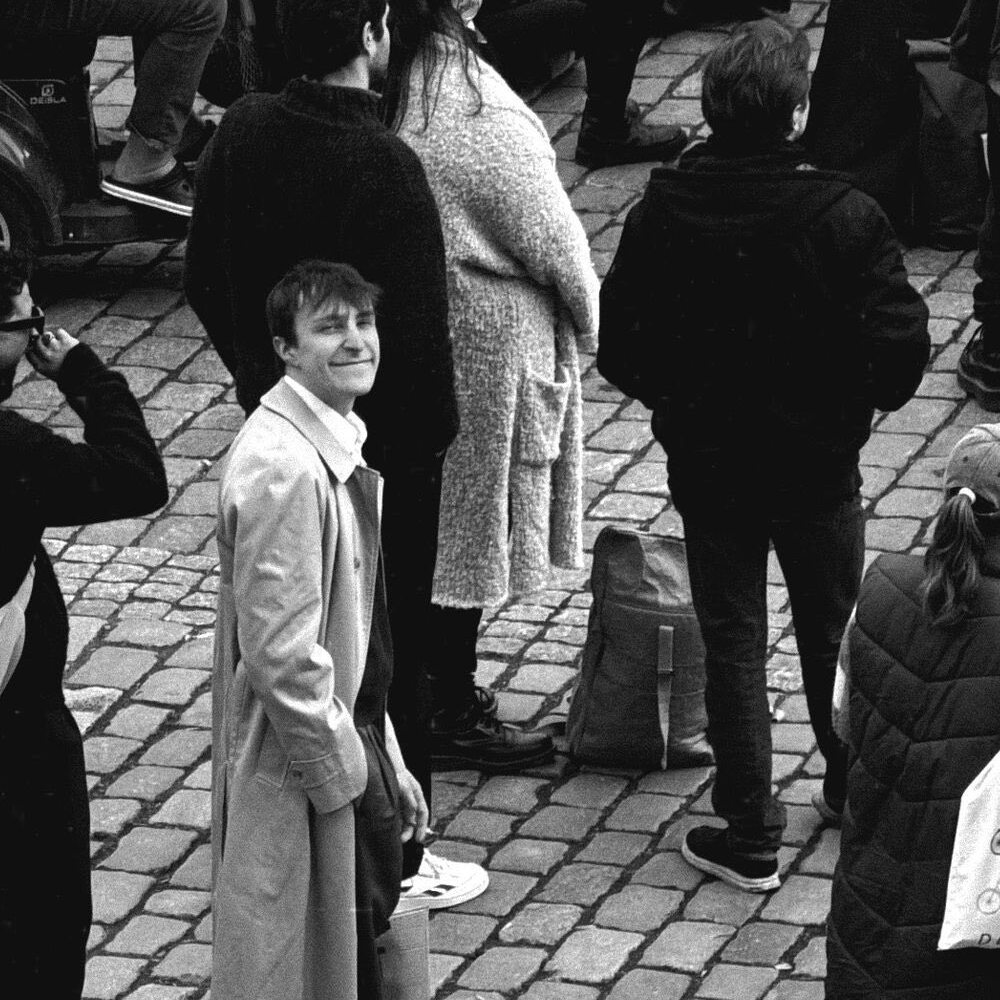
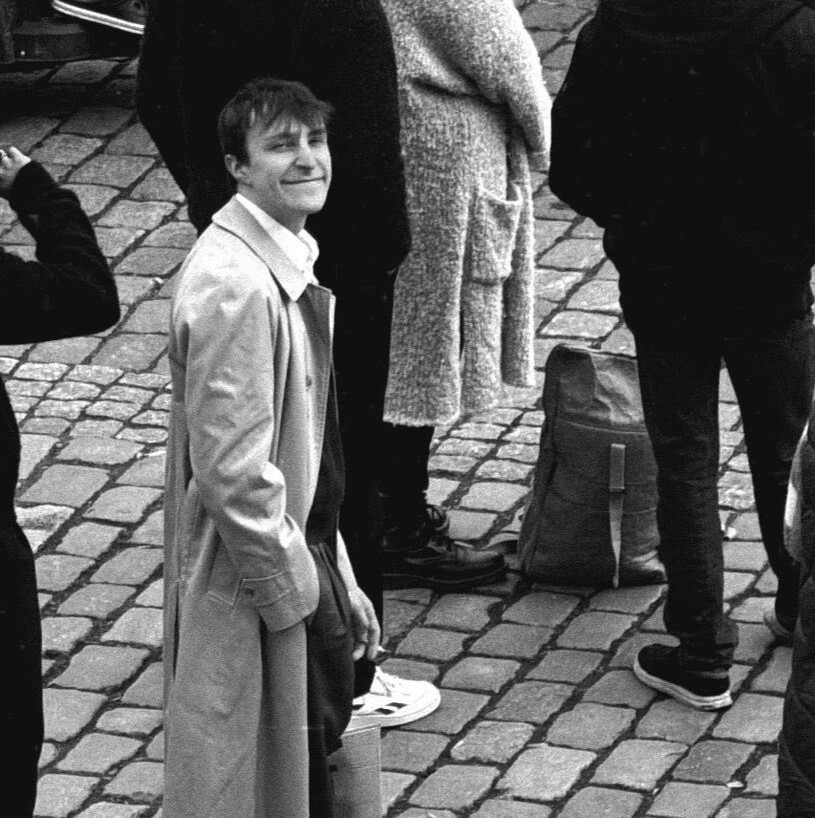
headlines

diff --git a/src/pages/RisingBrands.jsx b/src/pages/RisingBrands.jsx
@@ -70,9 +70,9 @@ export default function RisingBrands() {
       </section>
       <section className="flex flex-col justify-center gap-4 border-y border-slate-300 max-w-[1200px] w-full lg:text-center">
         <div className="flex flex-col lg:items-center h-full w-full px-4 py-40 gap-4">
-          <h2 className="instrument text-4xl">
+          <span className="instrument text-4xl">
             {risingBrands[locale].program.title}
-          </h2>
+          </span>
           <div className="border-b border-slate-300 border-zinc-500 w-2/5" />
           <span className="text-slate-600 max-w-[600px]">
             {risingBrands[locale].program.text}
@@ -82,9 +82,9 @@ export default function RisingBrands() {
       </section>
       <section className="flex flex-col items-center gap-4 border-b border-slate-300 max-w-[1200px] w-full">
         <div className="flex flex-col lg:items-center h-full w-full px-4 py-40 gap-4">
-          <h2 className="instrument text-4xl">
+          <span className="instrument text-4xl">
             {risingBrands[locale].qualification.title}
-          </h2>
+          </span>
           <div className="border-b border-slate-300 border-zinc-500 w-2/5 lg:items-center" />
 
           <ul className="flex flex-col gap-2 mt-1 lg:items-center">
@@ -110,9 +110,9 @@ export default function RisingBrands() {
       </section>
       <section className="flex flex-col items-center gap-4 blue -ml-4 -mr-4 p-4 text-white lg:max-w-[1200px] lg:w-full">
         <div className="flex flex-col h-full w-full px-4 py-40 gap-4">
-          <h2 className="instrument text-4xl">
+          <span className="instrument text-4xl">
             {risingBrands[locale].partnership.title}
-          </h2>
+          </span>
           <span className="text-slate-300">
             {risingBrands[locale].partnership.subtitle}
           </span>
@@ -195,9 +195,9 @@ export default function RisingBrands() {
       </section>
       <section className="flex flex-col items-center gap-4 border-b border-slate-300 max-w-[1200px] w-full">
         <div className="flex flex-col h-full w-full px-4 py-40 gap-4">
-          <h2 className="instrument text-4xl">
+          <span className="instrument text-4xl">
             {risingBrands[locale].applicationProcess.title}
-          </h2>
+          </span>
           <div className="border-b border-slate-300 border-zinc-500 w-2/5" />
 
           <ul className="flex flex-col gap-2 mt-1">
@@ -213,9 +213,9 @@ export default function RisingBrands() {
       </section>
       <section className="flex flex-col items-center gap-4 blue p-4 text-white lg:max-w-[1200px] md:w-full">
         <div className="flex flex-col items-center h-full w-screen md:w-full px-4 py-40 gap-4">
-          <h2 className="text-center text-6xl instrument">
+          <span className="text-center text-6xl instrument">
             {risingBrands[locale].footerCta.title}
-          </h2>
+          </span>
           <div className="border-b border-slate-300 border-zinc-300 w-2/5" />
           <span className="w-[300px]">
             {risingBrands[locale].footerCta.text}

diff --git a/src/pages/PremiereBrands.jsx b/src/pages/PremiereBrands.jsx
@@ -75,9 +75,9 @@ export default function PremiereBrands() {
       </section>
       <section className="flex flex-col justify-center gap-4 border-y border-slate-300 max-w-[1200px] w-full lg:text-center">
         <div className="flex flex-col lg:items-center h-full w-full px-4 py-40 gap-4">
-          <h2 className="instrument text-4xl">
+          <span className="instrument text-4xl">
             {premierBrands[locale].program.title}
-          </h2>
+          </span>
           <div className="border-b border-slate-300 border-zinc-500 w-2/5" />
           <span className="text-slate-600 max-w-[600px]">
             {premierBrands[locale].program.text}
@@ -90,9 +90,9 @@ export default function PremiereBrands() {
       </section>
       <section className="flex flex-col gap-4 border-b border-slate-300 max-w-[1200px] w-full">
         <div className="flex flex-col items-center justify-center h-full w-full px-4 py-40 gap-4">
-          <h2 className="instrument text-4xl">
+          <span className="instrument text-4xl">
             {premierBrands[locale].qualification.title}
-          </h2>
+          </span>
           <div className="border-b border-slate-300 border-zinc-500 w-2/5" />
 
           <ul className="flex flex-col gap-2 mt-1">
@@ -121,9 +121,9 @@ export default function PremiereBrands() {
       </section>
       <section className="flex flex-col items-center gap-4 blue -ml-4 -mr-4 p-4 text-white lg:max-w-[1200px] lg:w-full">
         <div className="flex flex-col h-full w-full px-4 py-40 gap-4">
-          <h2 className="instrument text-4xl">
+          <span className="instrument text-4xl">
             {premierBrands[locale].partnership.title}
-          </h2>
+          </span>
           <span className="text-slate-300">
             {premierBrands[locale].partnership.subtitle}
           </span>
@@ -207,9 +207,9 @@ export default function PremiereBrands() {
 
       <section className="flex flex-col items-center gap-4 border-b border-slate-300 max-w-[1200px] w-full">
         <div className="flex flex-col h-full w-full px-4 py-40 gap-4">
-          <h2 className="instrument text-4xl">
+          <span className="instrument text-4xl">
             {premierBrands[locale].applicationProcess.title}
-          </h2>
+          </span>
           <div className="border-b border-slate-300 border-zinc-500 w-2/5" />
 
           <ul className="flex flex-col gap-2 mt-1">
@@ -229,9 +229,9 @@ export default function PremiereBrands() {
 
       <section className="flex flex-col items-center gap-4 blue p-4 text-white lg:max-w-[1200px] md:w-full">
         <div className="flex flex-col items-center h-full w-screen md:w-full px-4 py-40 gap-4">
-          <h2 className="text-center text-6xl instrument">
+          <span className="text-center text-6xl instrument">
             {premierBrands[locale].footerCta.title}
-          </h2>
+          </span>
           <div className="border-b border-slate-300 border-zinc-300 w-2/5" />
           <span className="w-[300px]">
             {premierBrands[locale].footerCta.text}

diff --git a/src/data/homeLocale.js b/src/data/homeLocale.js
@@ -15,8 +15,8 @@ export const homeLocale = {
     },
 
     hero: {
-      title: "Globaler Partner für Ads",
-      subtitle: "Daten verstehen. Maßnahmen ergreifen. Wirkung sehen.",
+      title: "Daten verstehen. Maßnahmen ergreifen.<br />Wirkung sehen.",
+      subtitle: "Globaler Partner für Ads",
       buttons: {
         risingBrands: "Rising Brands",
         premiereBrands: "Premiere Brands",
@@ -146,8 +146,8 @@ export const homeLocale = {
     },
 
     hero: {
-      title: "Global Partner for Ads",
-      subtitle: "Understand data. Take action. See the impact.",
+      title: "Understand data. Take action.<br />See the impact.",
+      subtitle: "Global Partner for Ads",
       buttons: {
         risingBrands: "Rising Brands",
         premiereBrands: "Premier Brands",

diff --git a/src/pages/Home.jsx b/src/pages/Home.jsx
@@ -157,9 +157,13 @@ export default function Home() {
       {/* HERO */}
       <section className="max-w-[1200px] w-full min-h-[80vh] flex flex-col items-center justify-center text-center gap-4 p-8">
         <AnimatedGlobe />
-        <span className="text-center text-6xl instrument">
-          {homeLocale[locale].hero.title}
-        </span>
+
+        <span
+          className="text-center text-4xl md:text-5xl lg:text-6xl instrument"
+          dangerouslySetInnerHTML={{
+            __html: homeLocale[locale].hero.title,
+          }}
+        />
         <span className="text-zinc-500">
           {homeLocale[locale].hero.subtitle}
         </span>

diff --git a/src/pages/Experts.jsx b/src/pages/Experts.jsx
@@ -11,7 +11,7 @@ export default function Experts() {
           <img
             src={item.img}
             alt={item.name}
-            className="h-full w-full object-cover"
+            className="h-full w-full object-cover grayscale"
           />
         </div>
         <div className="flex flex-col py-4">
@@ -35,7 +35,7 @@ export default function Experts() {
           <img
             src={item.img}
             alt={item.name}
-            className="h-full w-full object-cover"
+            className="h-full w-full object-cover grayscale"
           />
         </div>
         <div className="flex flex-col py-4">
